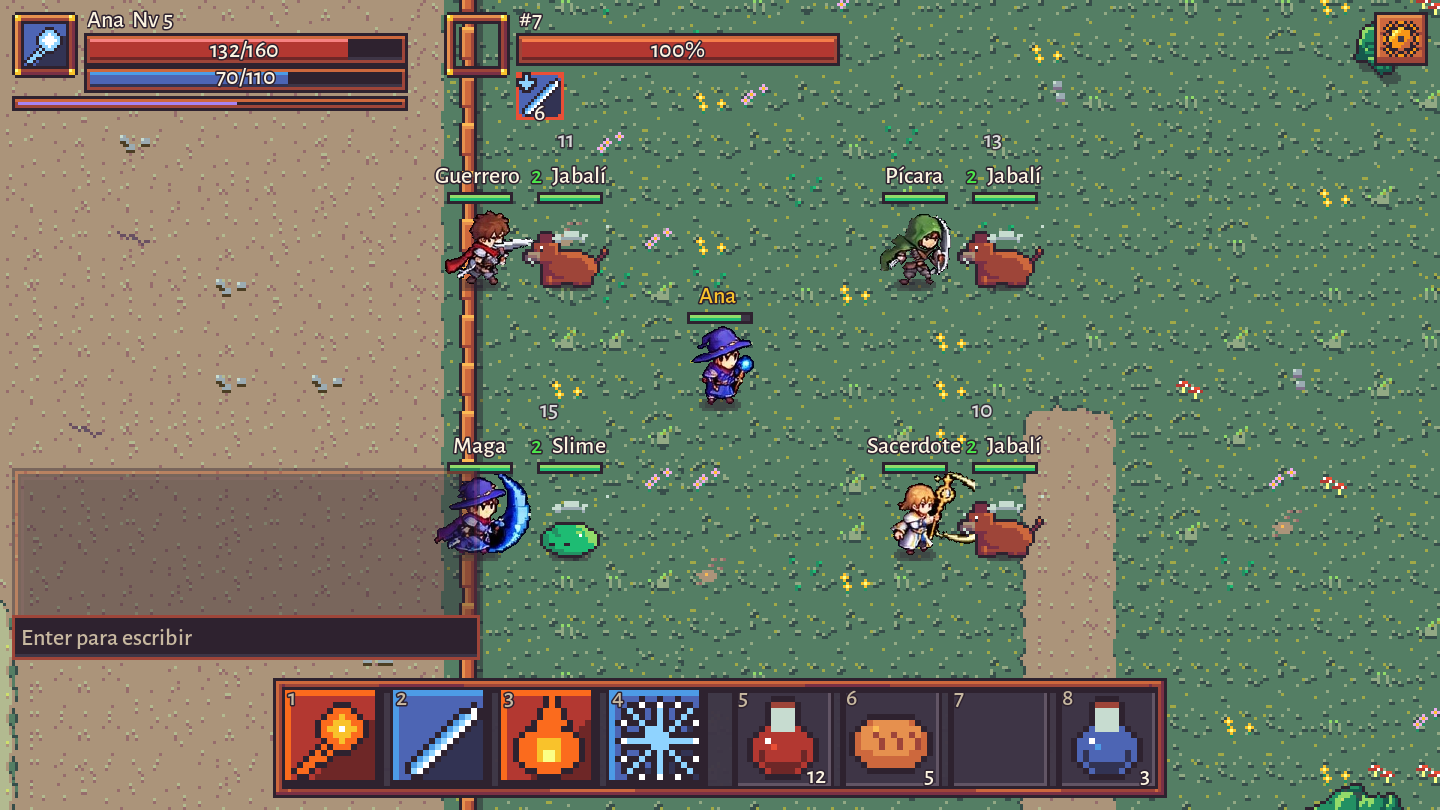
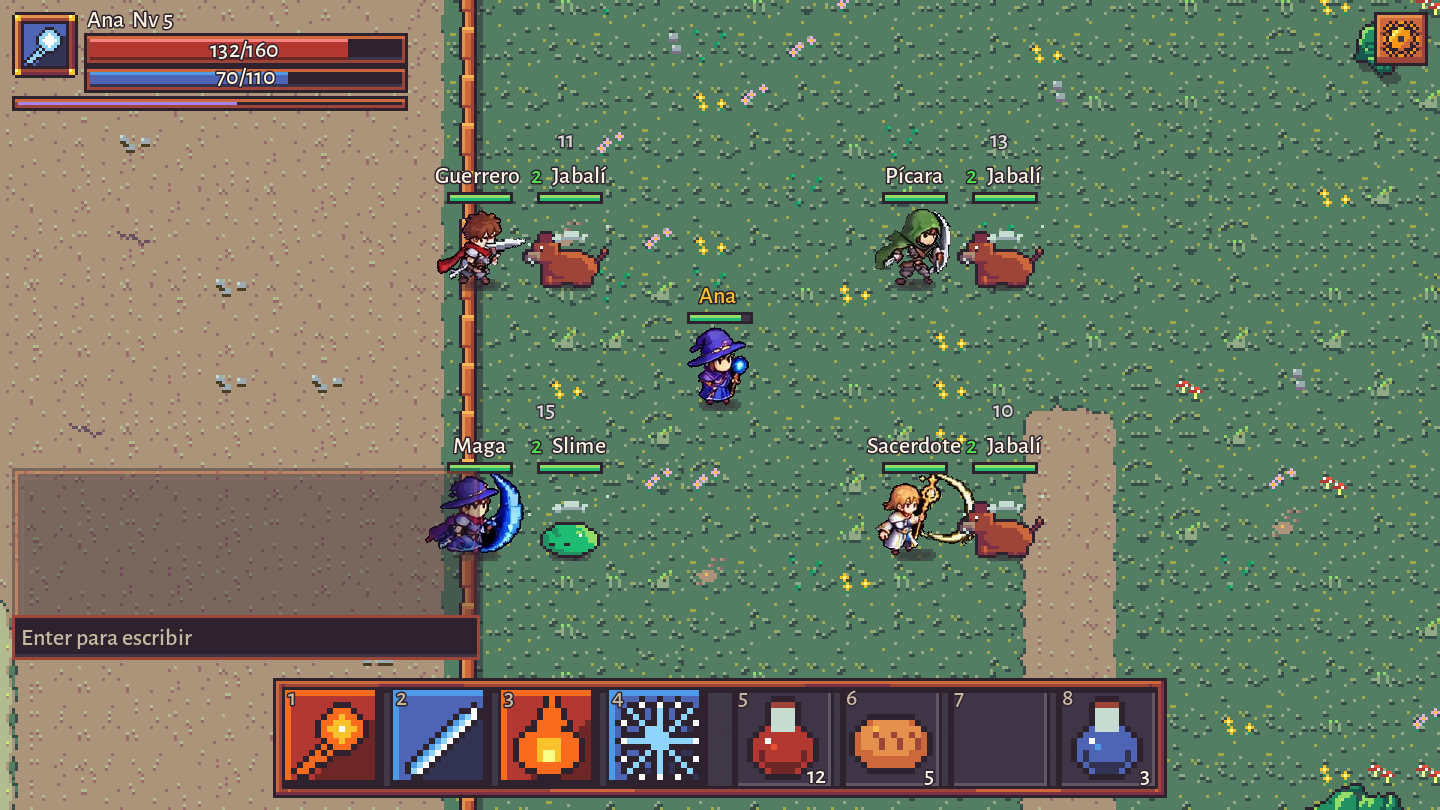
fix(art): steady idle and walk cycles for the HD heroes
Idle and walk frames jittered: the reference sheets draw the hero a few
pixels bigger or smaller from frame to frame and direction to direction, and
frames were centred on the moving feet. Idle and walk are now normalised to
the standard height per frame, every non-death frame is centred on the torso,
and the rogue, mage and warrior idle/walk picks skip the off-size frames.

diff --git a/tools/art/import_heroes.py b/tools/art/import_heroes.py
@@ -41,6 +41,8 @@ ENCLOSED_BG_MIN_PX = 300  # fondo encerrado por un efecto: al menos este tamaño
 
 ## Animaciones: cuadros (los mismos en las tres direcciones), fps y bucle. Más cuadros que las hojas procedurales;
 ## las duraciones del ataque (333 ms), el golpe y la muerte (500 ms) se mantienen.
+## Animaciones que se normalizan a STAND_HEIGHT cuadro a cuadro (las demás cambian de altura a propósito).
+STEADY_ANIMS = ("idle", "walk")
 ANIMS = {
     "idle": {"frames": 4, "fps": 5, "loop": True},
     "walk": {"frames": 8, "fps": 12, "loop": True},
@@ -72,26 +74,26 @@ FRAMES: dict[str, dict[str, dict[str, list[str]]]] = {
     "warrior": {
         "s": {"idle": keys(0, [0, 3, 6, 9]), "walk": even(2, 13, 8), "attack": ["4,3", "6,0", "6,1", "6,7", "6,8", "6,12"],
               "cast": keys(7, [2, 3, 4, 2, 3, 4]), "hurt": ["7,0", "8,1"], "death": keys(8, [2, 3, 4, 5])},
-        "n": {"idle": keys(1, [0, 3, 6, 9]), "walk": even(1, 13, 8), "attack": pl("attack", list(range(6))),
+        "n": {"idle": keys(1, [0, 2, 4, 6]), "walk": even(1, 13, 8), "attack": pl("attack", list(range(6))),
               "cast": pl("cast", list(range(6))), "hurt": keys(1, [0, 6]), "death": keys(8, [2, 3, 4, 5])},
         "e": {"idle": keys(0, [0, 3, 6, 9]), "walk": even(3, 13, 8), "attack": ["5,0", "6,0", "6,1", "6,5", "6,11", "6,12"],
               "cast": keys(7, [2, 3, 4, 2, 3, 4]), "hurt": ["7,0", "8,1"], "death": keys(8, [2, 3, 4, 5])},
     },
     "mage": {
-        "s": {"idle": keys(0, [0, 4, 9, 11]), "walk": even(2, 12, 8), "attack": ["5,0", "6,0", "6,1", "6,2", "6,3", "5,0"],
+        "s": {"idle": keys(0, [4, 7, 8, 9]), "walk": even(2, 12, 8), "attack": ["5,0", "6,0", "6,1", "6,2", "6,3", "5,0"],
               "cast": keys(4, [0, 2, 4, 6, 8, 4]), "hurt": keys(7, [6, 7]), "death": keys(7, [7, 8, 10, 11])},
         "n": {"idle": ["1,1", "1,6", "1,1", "1,6"], "walk": ["0,1", "1,1", "0,6", "1,6", "1,9", "1,10", "1,1", "1,6"],
               "attack": pl("attack", list(range(6))), "cast": pl("cast", list(range(6))),
               "hurt": ["1,1", "1,6"], "death": keys(7, [7, 8, 10, 11])},
-        "e": {"idle": keys(0, [0, 4, 9, 11]), "walk": even(3, 12, 8), "attack": ["5,0", "6,0", "6,1", "6,2", "6,3", "5,0"],
+        "e": {"idle": keys(0, [4, 7, 8, 9]), "walk": even(3, 12, 8), "attack": ["5,0", "6,0", "6,1", "6,2", "6,3", "5,0"],
               "cast": keys(4, [0, 2, 4, 6, 8, 4]), "hurt": keys(7, [6, 7]), "death": keys(7, [7, 8, 10, 11])},
     },
     "rogue": {
-        "s": {"idle": keys(0, [0, 4, 8, 12]), "walk": even(2, 16, 8), "attack": keys(4, [3, 4, 6, 7, 10, 11]),
+        "s": {"idle": keys(0, [4, 7, 10, 13]), "walk": keys(2, [3, 5, 6, 8, 9, 11, 12, 14]), "attack": keys(4, [3, 4, 6, 7, 10, 11]),
               "cast": keys(7, [0, 1, 2, 3, 4, 6]), "hurt": keys(8, [3, 4]), "death": keys(8, [6, 7, 8, 10])},
         "n": {"idle": keys(1, [0, 1, 2, 1]), "walk": keys(1, [0, 1, 2, 4, 5, 6, 7, 1]), "attack": keys(1, [2, 4, 5, 6, 7, 2]),
               "cast": keys(1, [0, 1, 2, 4, 5, 6]), "hurt": keys(1, [0, 1]), "death": keys(8, [6, 7, 8, 10])},
-        "e": {"idle": keys(0, [0, 4, 8, 12]), "walk": even(3, 16, 8), "attack": keys(4, [3, 4, 6, 7, 10, 11]),
+        "e": {"idle": keys(0, [4, 7, 10, 13]), "walk": keys(3, list(range(8, 16))), "attack": keys(4, [3, 4, 6, 7, 10, 11]),
               "cast": keys(7, [0, 1, 2, 3, 4, 6]), "hurt": keys(8, [3, 4]), "death": keys(8, [6, 7, 8, 10])},
     },
     # La hoja no trae vista de espaldas: el norte sale de PixelLab (rotación v3 del reposo sur y animaciones v3 al norte).
@@ -191,15 +193,21 @@ def shrink(im: Image.Image, scale: float) -> Image.Image:
     return Image.fromarray(np.dstack([np.clip(rgb, 0, 255), np.where(al > 110, 255, 0)]).astype(np.uint8), "RGBA")
 
 
-def frame_cell(frame: Image.Image) -> Image.Image:
-    """Celda de SIZE×SIZE con los pies centrados en x=SIZE/2 y la planta en FEET_Y."""
+def frame_cell(frame: Image.Image, anchor: str = "torso") -> Image.Image:
+    """Celda de SIZE×SIZE con la planta en FEET_Y y centrada en x=SIZE/2: por el torso (mediana de la franja media del
+    cuerpo, estable aunque las piernas y el arma se muevan) o por los pies (muerte: el cuerpo está tendido)."""
     alpha = np.asarray(frame)[..., 3]
     # Los pies salen del cuerpo (la mancha mayor), no de destellos sueltos bajo él.
     lab, n = ndimage.label(alpha > 0)
     body = lab == (1 + int(np.argmax(ndimage.sum(np.ones_like(lab), lab, range(1, n + 1))))) if n > 1 else alpha > 0
     ys, xs = np.where(body)
-    low = ys >= ys.max() - max(3, int(0.12 * (ys.max() - ys.min())))
-    cx = int(round(xs[low].mean()))
+    top, bottom = ys.min(), ys.max()
+    if anchor == "torso":
+        band = (ys >= top + 0.35 * (bottom - top)) & (ys <= top + 0.75 * (bottom - top))
+        cx = int(round(float(np.median(xs[band]))))
+    else:
+        low = ys >= bottom - max(3, int(0.12 * (bottom - top)))
+        cx = int(round(xs[low].mean()))
     cell = Image.new("RGBA", (SIZE, SIZE))
     cell.paste(frame, (SIZE // 2 - cx, FEET_Y - int(ys.max()) - 1), frame)
     return cell
@@ -229,11 +237,14 @@ def build_class(class_id: str) -> bool:
             assert len(frames) == a["frames"], f"{class_id}/{d}/{name}: {len(frames)} cuadros, se esperan {a['frames']}"
             anims[name] = {"column": col, **a}
             for key in frames:
-                if key.startswith("pl:"):
-                    frame = shrink(pl_frame(key), pl_scale)
-                else:
-                    frame = shrink(cut_out(img, box(key)), scale)
-                sheet.paste(frame_cell(frame), (col * SIZE, r * SIZE))
+                source = pl_frame(key) if key.startswith("pl:") else cut_out(img, box(key))
+                base = pl_scale if key.startswith("pl:") else scale
+                if name in STEADY_ANIMS:
+                    # Reposo y caminar a la misma estatura en todos los cuadros y direcciones: las hojas dibujan al
+                    # personaje unos píxeles más grande o más pequeño de un cuadro a otro y se veía "respirar" al andar.
+                    base = STAND_HEIGHT / source.crop(source.getbbox()).height
+                frame = shrink(source, base)
+                sheet.paste(frame_cell(frame, "feet" if name == "death" else "torso"), (col * SIZE, r * SIZE))
                 col += 1
     out = ASSETS / "sprites" / "characters"
     sheet.save(out / f"{class_id}.png")
